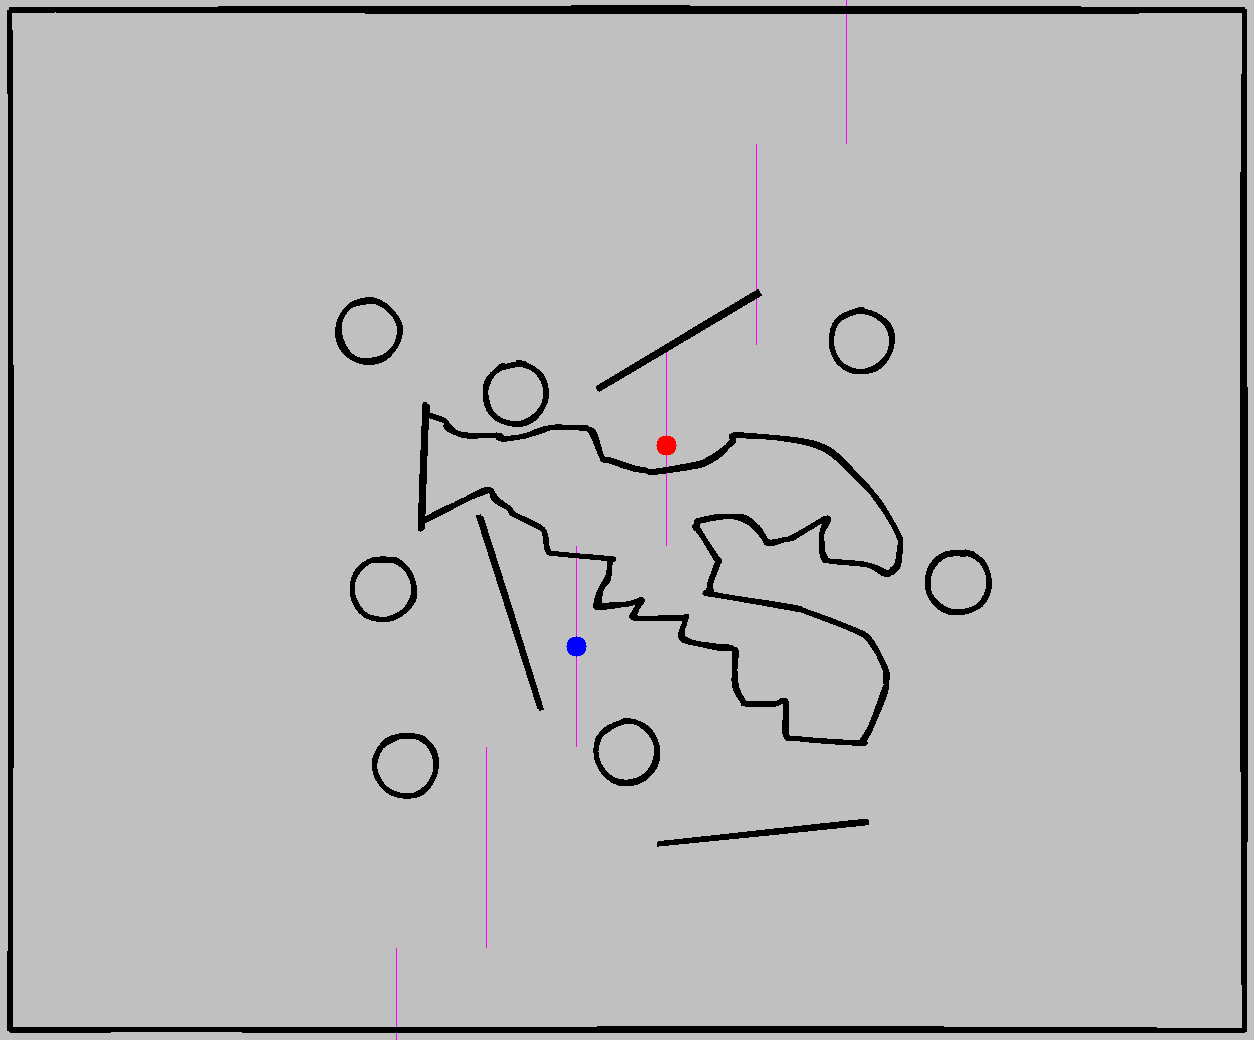
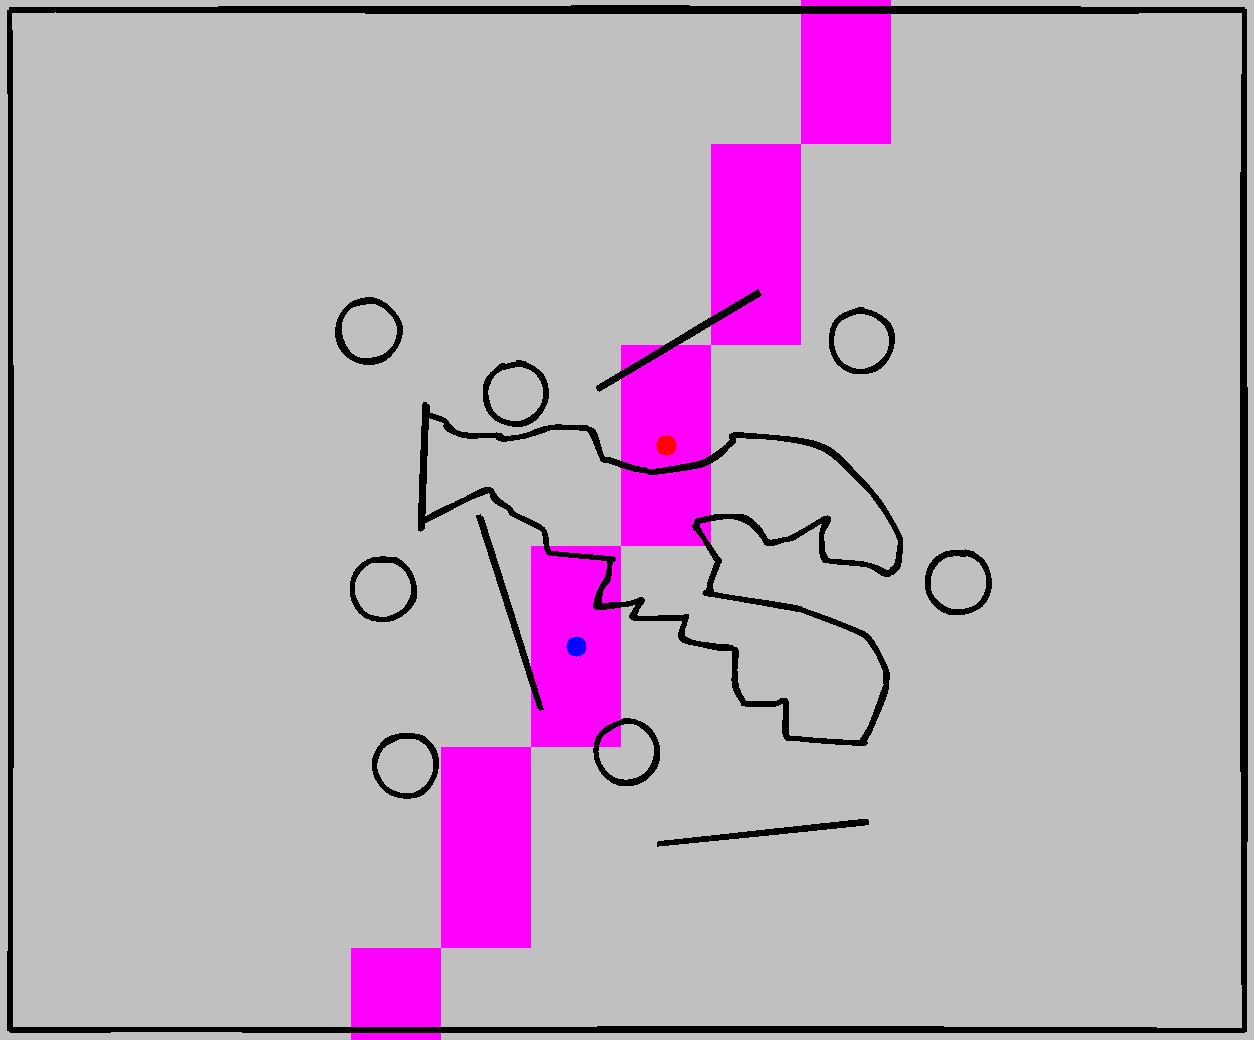
Write the first iteration ot A*

Changed region(s): [[0.4976, 0.0, 0.7153, 0.5231], [0.2799, 0.5231, 0.4976, 1.0]]

diff --git a/src/main/java/com/efim/astar/algo/AStar.java b/src/main/java/com/efim/astar/algo/AStar.java
@@ -1,0 +1,90 @@
+package com.efim.astar.algo;
+
+import java.util.ArrayList;
+import java.util.HashMap;
+import java.util.PriorityQueue;
+
+public class AStar implements SearchAlgorithm{
+
+    private int heuristicWeight;
+
+    public AStar(int heuristicWeight) {
+        this.heuristicWeight = heuristicWeight;
+    }
+
+    private static int[][] diffs = new int[][]{
+            {0, 1}, {0, -1}, {1, 0}, {-1, 0}
+    };
+
+    @Override
+    public SearchSolution solve(SearchProblem problem) {
+        var path = new ArrayList<Point>();
+        var expanded = new ArrayList<Point>();
+
+        Cell[][] area = problem.area();
+        var I = area.length;
+        var J = area[0].length;
+
+        var frontier = new PriorityQueue<FrontierNode>();
+        var minDistances = new HashMap<Point, Integer>();
+        var backlinks = new HashMap<Point, Point>();
+        var visited = new boolean[I][J];
+        var found = false;
+
+        frontier.add(new FrontierNode(0, problem.start()));
+        minDistances.put(problem.start(), 0);
+        while (!frontier.isEmpty()) {
+            var current = frontier.poll().point;
+
+            if (current.equals(problem.goal())) {
+                found = true;
+                break;
+            }
+
+            expanded.add(current);
+            visited[current.i()][current.j()] = true;
+
+            for (int[] diff : diffs) {
+                var adjI = current.i() + diff[0];
+                var adjJ = current.j() + diff[1];
+                var adjPoint = new Point(adjI, adjJ);
+
+                if (adjI < 0 || adjI >= I || adjJ < 0 || adjJ >= J || area[adjI][adjJ] == Cell.WALL || visited[adjI][adjJ]) {
+                    continue;
+                }
+
+                // Okay, now let's add this to the frontier
+                var adjDist = minDistances.get(current) + 1;
+                minDistances.put(adjPoint, adjDist);
+                backlinks.put(adjPoint, current);
+                var adjWeight = adjDist + heuristicWeight * heuristic(adjPoint, problem.goal());
+                frontier.add(new FrontierNode(adjWeight, adjPoint));
+            }
+        }
+
+        if (found) {
+            // Let's unwind all backlinks
+            var current = problem.goal();
+            while (!current.equals(problem.start())) {
+                path.add(current);
+                current = backlinks.get(current);
+            }
+        }
+
+        return new SearchSolution(path, expanded);
+    }
+
+    private int heuristic(Point current, Point goal) {
+        return current.manhattanTo(goal);
+    }
+
+    private record FrontierNode (
+            int weight,
+            Point point
+    ) implements Comparable<FrontierNode>{
+        @Override
+        public int compareTo(FrontierNode other) {
+            return weight - other.weight;
+        }
+    }
+}

diff --git a/src/main/java/com/efim/astar/visual/SolutionVisualiserToPng.java b/src/main/java/com/efim/astar/visual/SolutionVisualiserToPng.java
@@ -6,7 +6,6 @@ import com.efim.astar.algo.SearchProblem;
 import com.efim.astar.algo.SearchSolution;
 
 import javax.imageio.ImageIO;
-import javax.imageio.stream.FileImageOutputStream;
 import java.awt.*;
 import java.awt.image.BufferedImage;
 import java.io.File;
@@ -28,9 +27,9 @@ public class SolutionVisualiserToPng implements SolutionVisualiser{
                     image.setRGB(j, i, Color.BLACK.getRGB());
                 } else {
                     var currentPoint = new Point(i, j);
-                    if (problem.start().inVicinity(currentPoint, 10)) {
+                    if (problem.start().inEuclideanVicinity(currentPoint, 10)) {
                         image.setRGB(j, i, Color.BLUE.getRGB());
-                    } else if (problem.goal().inVicinity(currentPoint, 10)) {
+                    } else if (problem.goal().inEuclideanVicinity(currentPoint, 10)) {
                         image.setRGB(j, i, Color.RED.getRGB());
                     } else if (pathSet.contains(currentPoint)) {
                         image.setRGB(j, i, Color.MAGENTA.getRGB());

diff --git a/src/main/java/com/efim/astar/visual/Main.java b/src/main/java/com/efim/astar/visual/Main.java
@@ -1,6 +1,6 @@
 package com.efim.astar.visual;
 
-import com.efim.astar.algo.GothicSearchAlgorithm;
+import com.efim.astar.algo.AStar;
 
 import java.io.File;
 import java.util.concurrent.TimeUnit;
@@ -14,7 +14,7 @@ public class Main {
 
         var start = System.nanoTime();
         var problem = new ProblemGeneratorFromPng().generate(input);
-        var solution = new GothicSearchAlgorithm().solve(problem);
+        var solution = new AStar(0).solve(problem);
         new SolutionVisualiserToPng().visualise(output, problem, solution);
 
         System.out.println("Finished in %d ms. Result: %s".formatted(

diff --git a/src/main/java/com/efim/astar/algo/Point.java b/src/main/java/com/efim/astar/algo/Point.java
@@ -4,7 +4,11 @@ public record Point(
         int i,
         int j) {
 
-    public boolean inVicinity(Point other, int epsilon) {
+    public int manhattanTo(Point other) {
+        return Math.abs(i - other.i) + Math.abs(j - other.j);
+    }
+
+    public boolean inEuclideanVicinity(Point other, int epsilon) {
         return Math.sqrt(
                 (i - other.i) * (i - other.i) +
                         (j - other.j) * (j - other.j)) <= epsilon;
